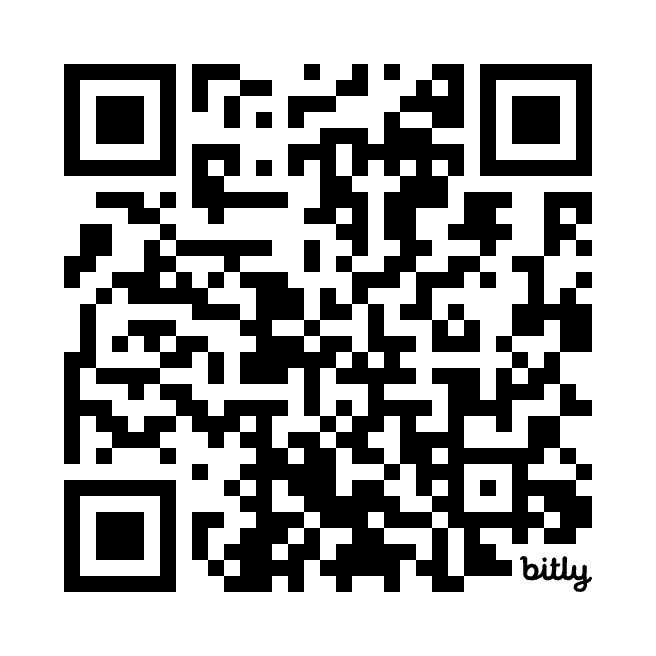
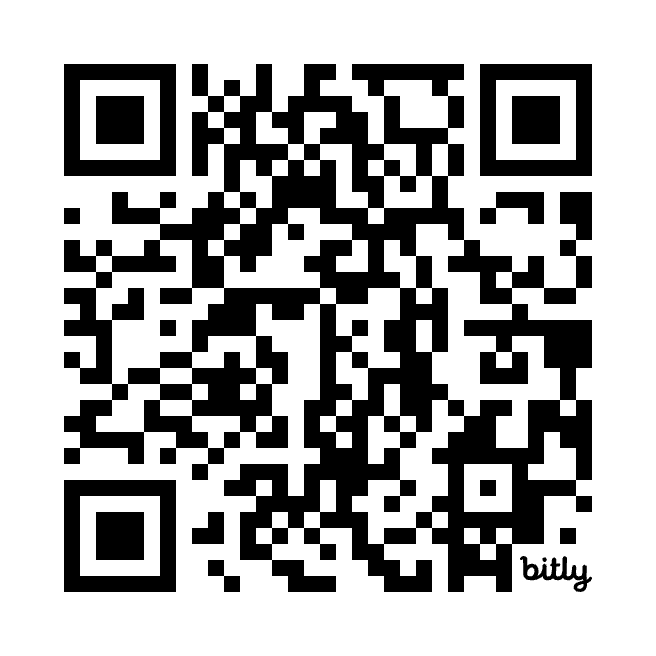
update

Changed region(s): [[0.0915, 0.0915, 0.9146, 0.9146]]

diff --git a/20240930_TUAT_seminar/20240930_TUAT_seminar.md b/20240930_TUAT_seminar/20240930_TUAT_seminar.md
@@ -19,7 +19,7 @@ ono@pt-bio.com / onohrms@hiroshima-u.ac.jp
 
 これは、東京農工大学動物生化学研究室セミナー『データ(ベース)駆動型生命科学研究への招待: 統合データベースの活用事例とバイオインフォマティクスツールの使いこなし術』の講演資料です。   
 - PDF のダウンロード　
-  - [https://bit.ly/240930_TUAT](https://bit.ly/240930_TUAT)
+  - [https://bit.ly/240930_TUAT](https://bit.ly/20240930_TUAT)
   - ![bg right:40% 80%](https://raw.githubusercontent.com/hiromasaono/training/master/images/240930_TUAT.jpg)
 
 © 2024 ONO Hiromasa, [CC-BY-4.0](https://creativecommons.org/licenses/by/4.0/deed.ja)　(出典明記でご自由にお使いください)
